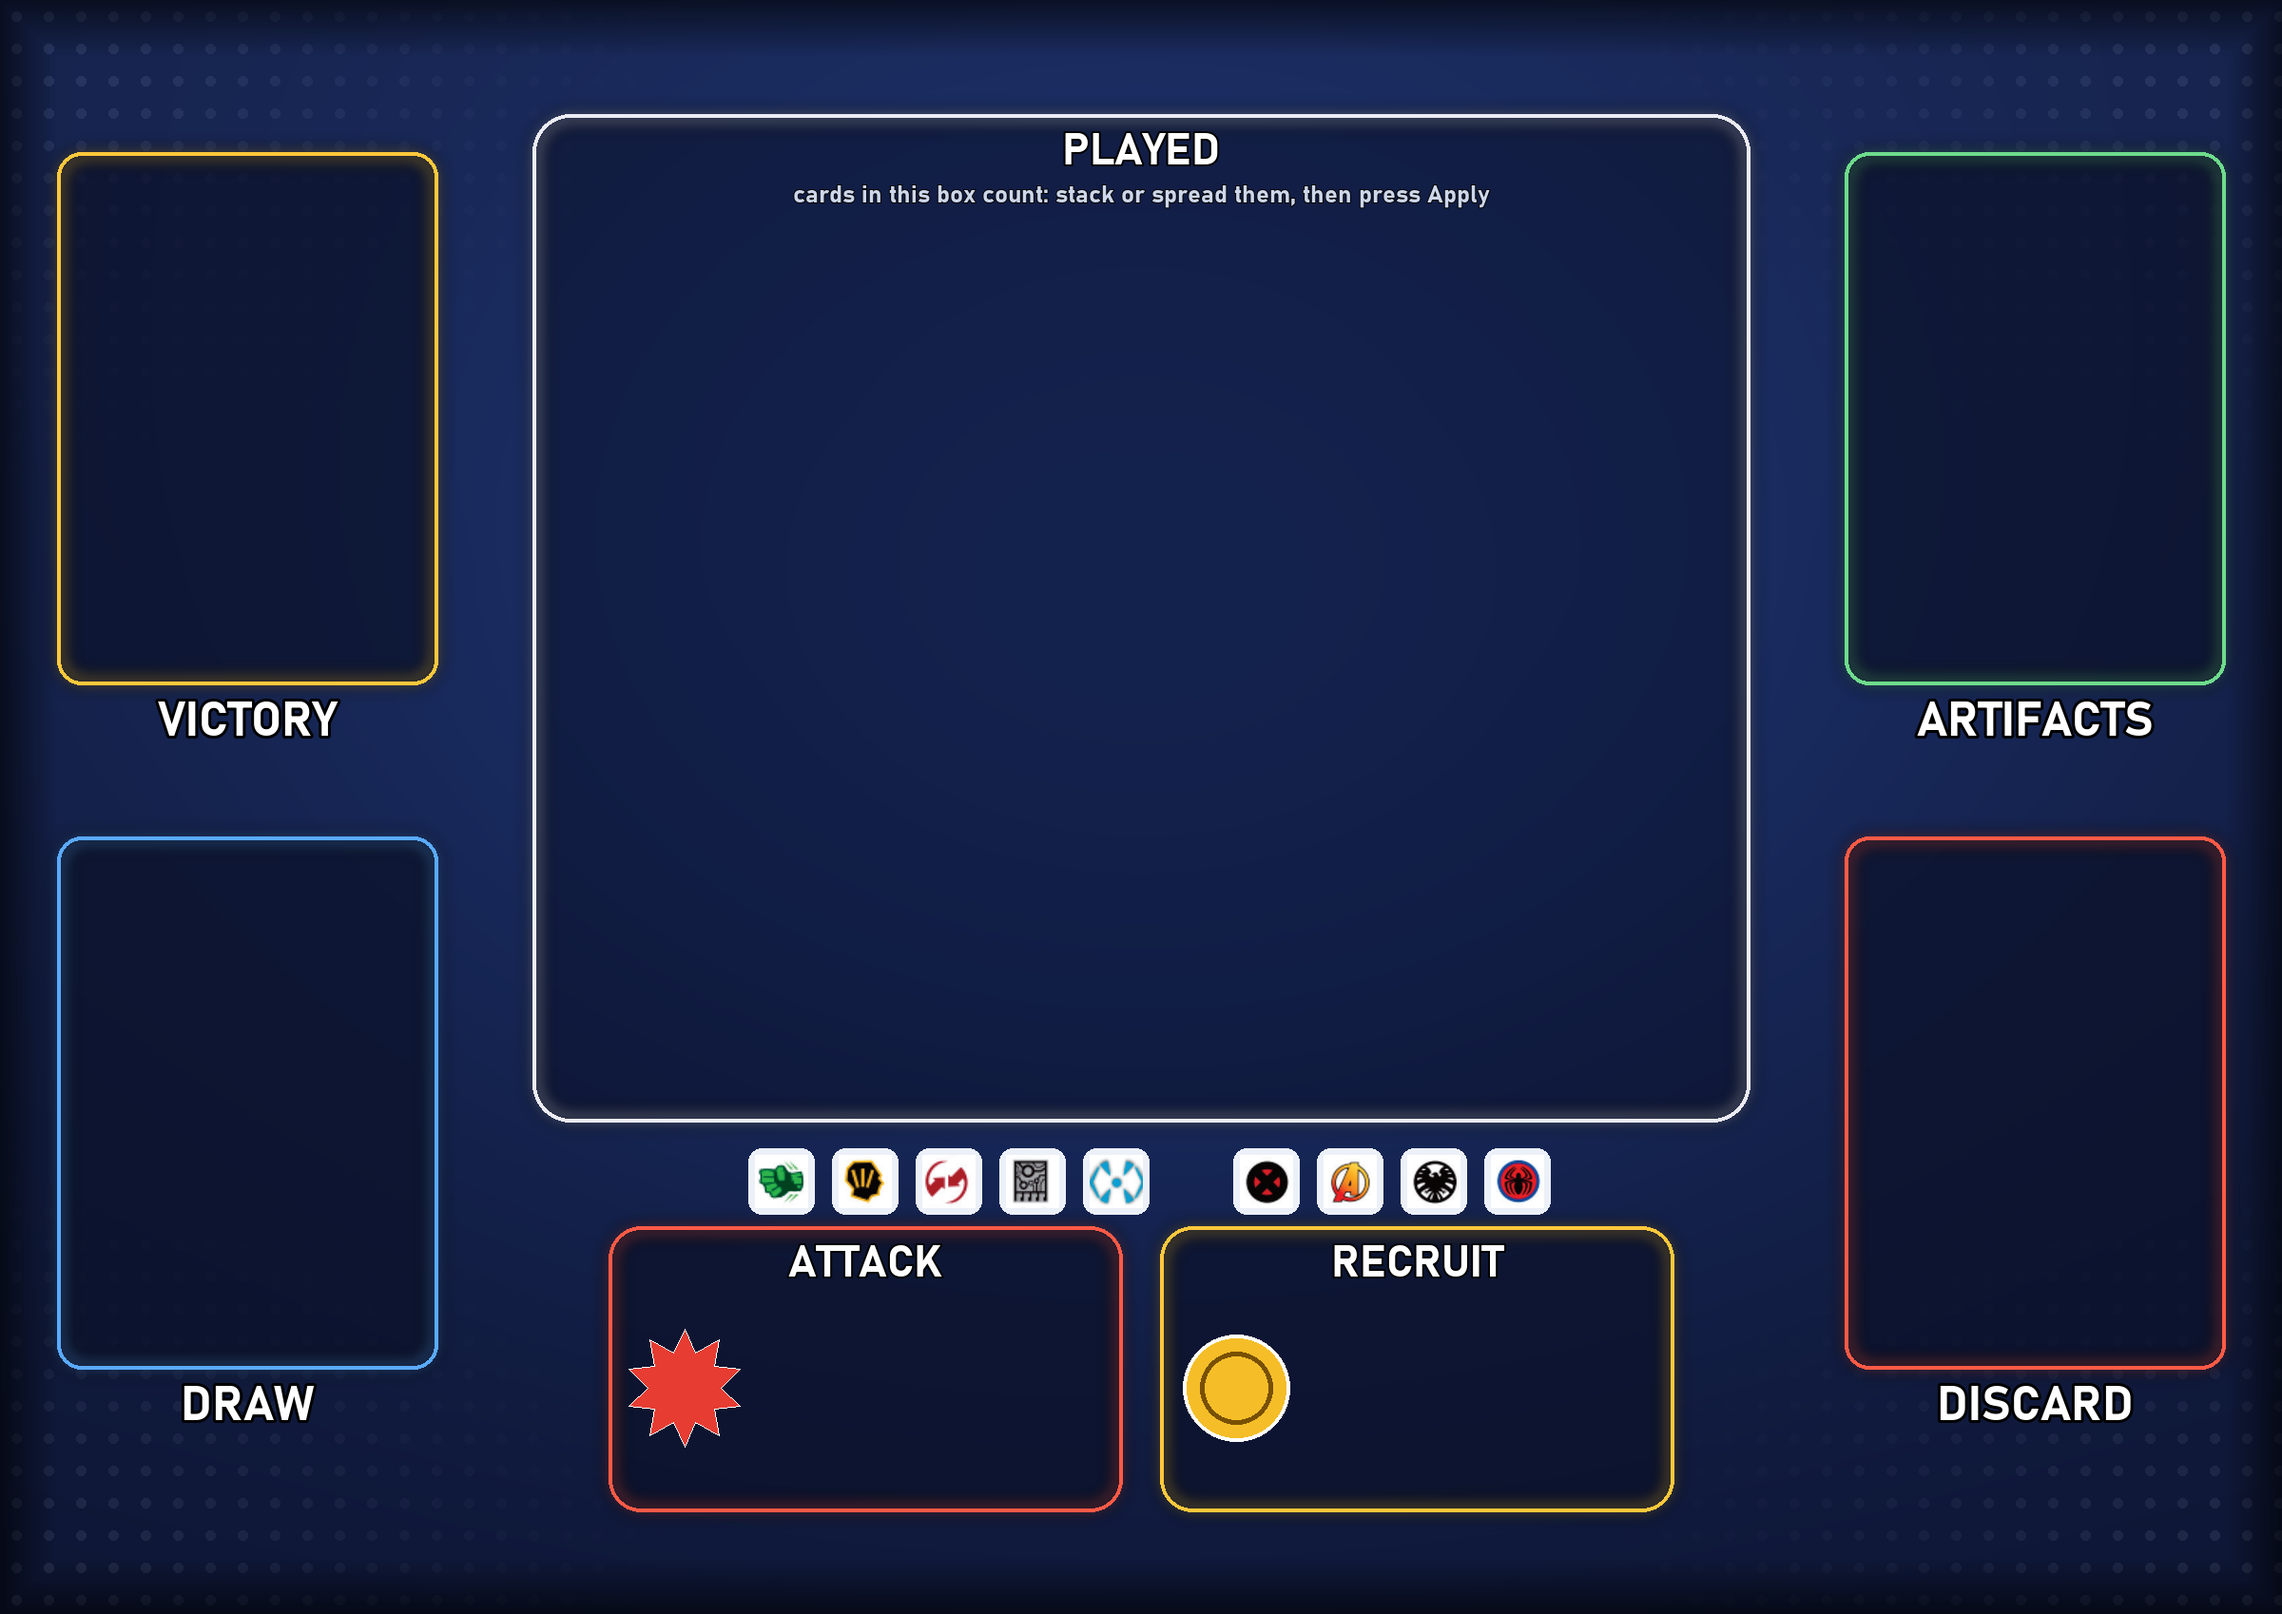
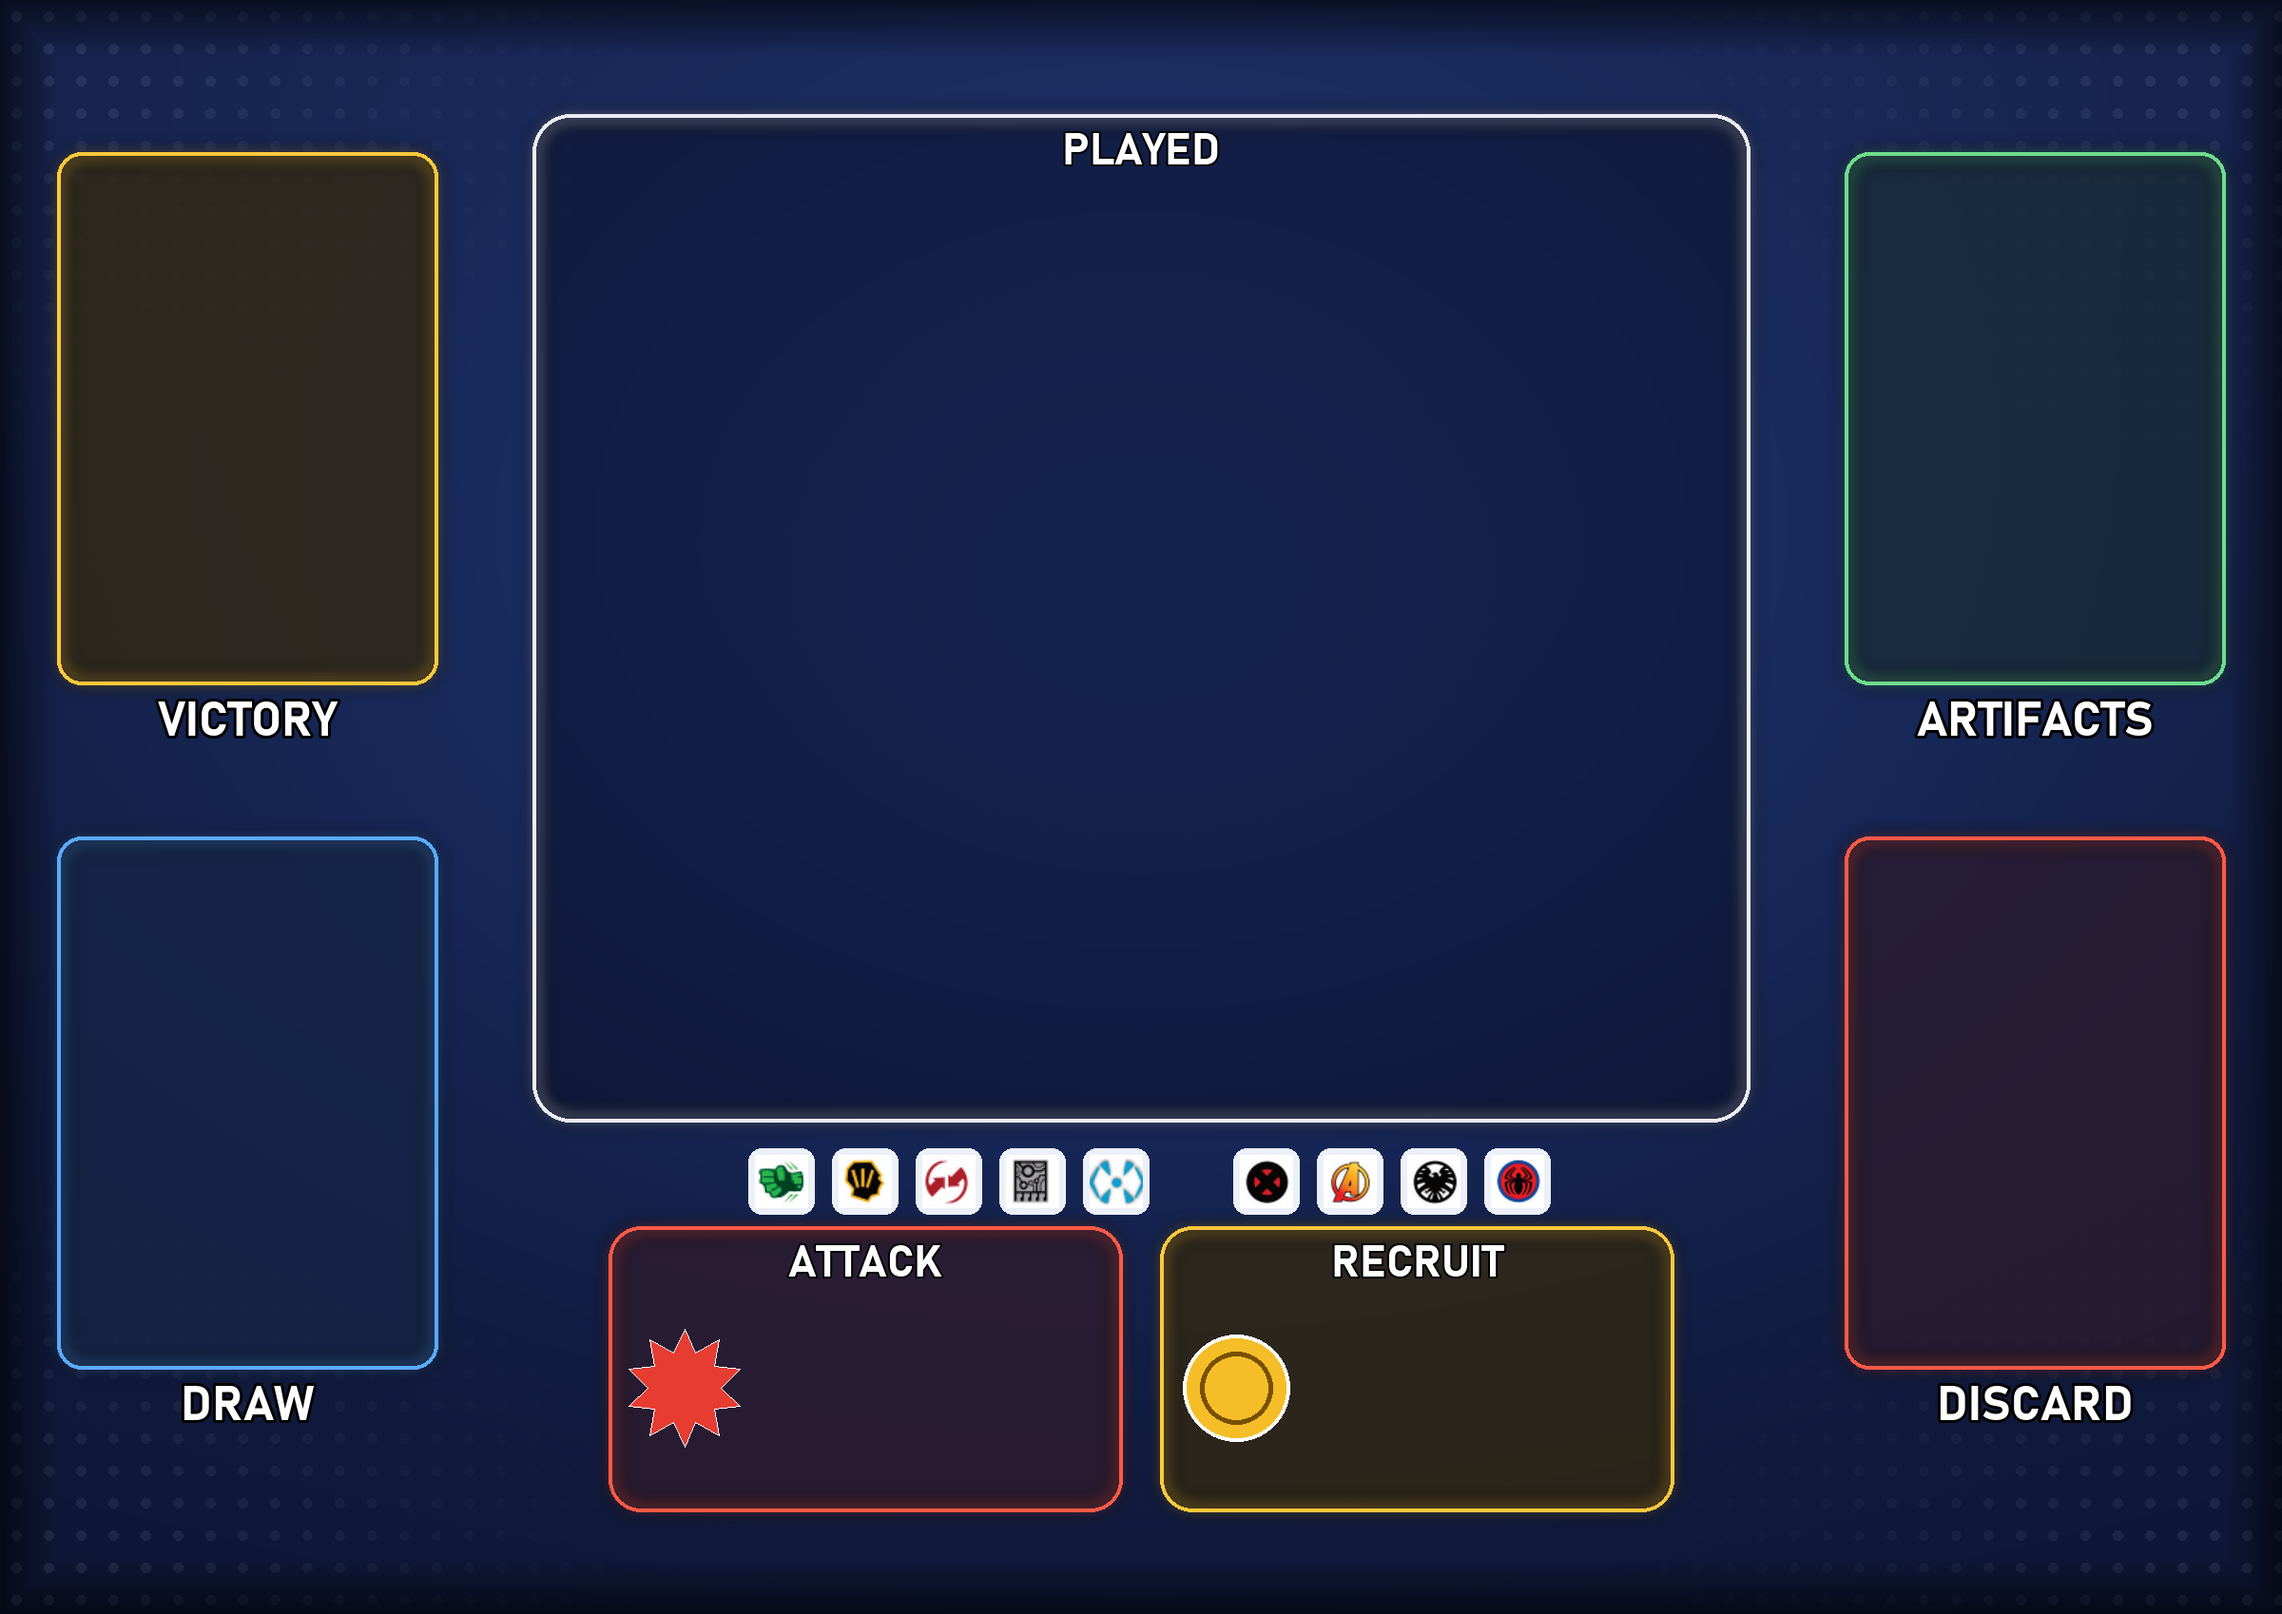
Player mat v2: zone fills tinted to their accent colour, Played instruction line removed

diff --git a/mods/legendary-marvel/scripts/make_player_mat_v2.py b/mods/legendary-marvel/scripts/make_player_mat_v2.py
@@ -80,10 +80,16 @@ def panel(box, label, sub=None, accent=(255, 255, 255), fill=(10, 16, 40, 175), 
             d.text((cx - sw / 2, ty + 56), sub, font=f2, fill=(205, 215, 235, 220), stroke_width=1, stroke_fill=(0, 0, 0, 255))
 
 
+def tint(accent, k=0.14):
+    base = (10, 16, 40)
+    if accent == (255, 200, 60): return (52, 40, 14, 190)    # gold mixed into navy goes grey, so it gets a hand-set warm fill
+    return tuple(int(base[i] * (1 - k) + accent[i] * k) for i in range(3)) + (185,)
+
+
 def slot(uv, label, accent):
     cx, cy = px(uv)
     box = (cx - CARD_W // 2, cy - CARD_H // 2, cx + CARD_W // 2, cy + CARD_H // 2)
-    panel(box, None, accent=accent)
+    panel(box, None, accent=accent, fill=tint(accent))
     # label under the frame, outside the card area so a card never covers it
     d = ImageDraw.Draw(im)
     f = font(50)
@@ -101,11 +107,11 @@ slot(C.PM_DISCARD_UV, 'DISCARD', RED)
 
 u0, v0, u1, v1 = C.PM_PLAYED_BOX
 (bx0, by0), (bx1, by1) = px((u0, v0)), px((u1, v1))
-panel((bx0, by0, bx1, by1), 'PLAYED', 'cards in this box count: stack or spread them, then press Apply', accent=WHITE, fill=(6, 10, 30, 110), r=40)
+panel((bx0, by0, bx1, by1), 'PLAYED', None, accent=WHITE, fill=(6, 10, 30, 110), r=40)
 
 for uv, label, col in ((C.PM_ATTACK_UV, 'ATTACK', RED), (C.PM_RECRUIT_UV, 'RECRUIT', GOLD)):
     cx, cy = px(uv)
-    panel((cx - 270, cy - 150, cx + 270, cy + 150), label, accent=col, fill=(10, 16, 40, 170), r=34)
+    panel((cx - 270, cy - 150, cx + 270, cy + 150), label, accent=col, fill=tint(col, 0.16), r=34)
 
 
 # ---- icons: class and team icons cut from the official Player Mat PDF (vector, rendered large), on light tiles so the dark ones show ----
